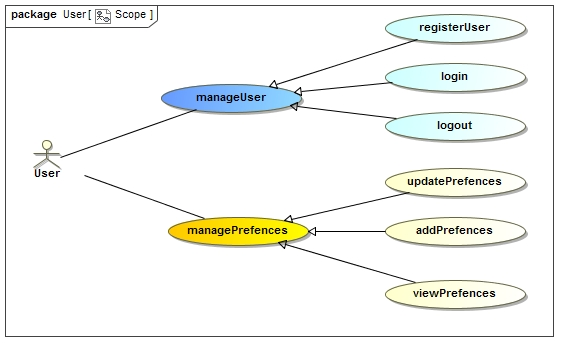
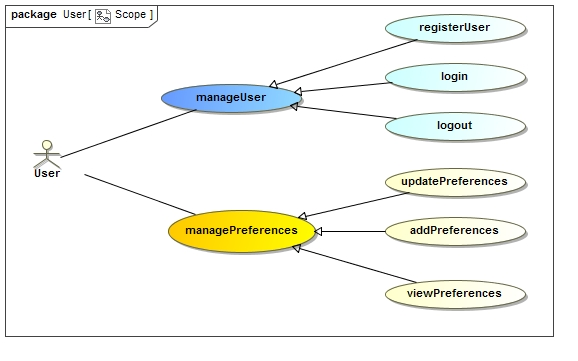
Modified user module

diff --git a/FunctionalRequirements/user_module.tex b/FunctionalRequirements/user_module.tex
@@ -25,7 +25,7 @@ A user can register with the system as long as they are not already registered. 
 
 \subsubsection{login}
 
-A registered user, given that they provide correct details to authenicate them, is able to access functionality such as adding and editing weather and disaster prefences once logged in. Below are the service contract, activity diagram and functional requirements diagram for login.
+A registered user, given that they provide correct details to authenicate them, is able to access functionality such as adding and editing weather and disaster preferences once logged in. Below are the service contract, activity diagram and functional requirements diagram for login.
 
 \begin{figure}[H]
 	\centering
@@ -67,6 +67,68 @@ A user, given that they are logged in to the system, is able to logout of the sy
 	\caption{The activity diagram for logout \label{overflow}}
 \end{figure}
 
-\subsubsection{addPrefences}
-\subsubsection{editPrefences}
-\subsubsection{viewPrefences}
+\subsubsection{addPreferences}
+
+A user, given that they are logged into the system, is able to add their weather and/or disaster data preferences as long as the user has specified the preference details correctly and those preference details do not already exist for the user. Below are the service contract, activity diagram and functional requirements diagram for addPreferences.
+
+\begin{figure}[H]
+	\centering
+	\includegraphics[width=1.0\textwidth]{../images/funcReq/addPreferencesServiceContract.jpg}
+	\caption{The service contract for addPreferences \label{overflow}}
+\end{figure}
+
+\begin{figure}[H]
+	\centering
+	\includegraphics[width=1.0\textwidth]{../images/funcReq/addPreferencesFunctionalRequirements.jpg}
+	\caption{The functional requirements diagram for addPreferences \label{overflow}}
+\end{figure}
+
+\begin{figure}[H]
+	\centering
+	\includegraphics[width=1.0\textwidth]{../images/funcReq/addPreferencesActivityDiagram.jpg}
+	\caption{The activity diagram for addPreferences \label{overflow}}
+\end{figure}
+
+\subsubsection{editPreferences}
+
+A user, given that they are logged into the system, is able to edit any of their weather and/or disaster data preferences as long as the user has specified the preference details to update and those preference details to be updated are not like the ones that already exist for the user. Below are the service contract, activity diagram and functional requirements diagram for editPreferences.
+
+\begin{figure}[H]
+	\centering
+	\includegraphics[width=1.0\textwidth]{../images/funcReq/editPreferencesServiceContract.jpg}
+	\caption{The service contract for editPreferences \label{overflow}}
+\end{figure}
+
+\begin{figure}[H]
+	\centering
+	\includegraphics[width=1.0\textwidth]{../images/funcReq/editPreferencesFunctionalRequirements.jpg}
+	\caption{The functional requirements diagram for editPreferences \label{overflow}}
+\end{figure}
+
+\begin{figure}[H]
+	\centering
+	\includegraphics[width=1.0\textwidth]{../images/funcReq/editPreferencesActivityDiagram.jpg}
+	\caption{The activity diagram for editPreferences \label{overflow}}
+\end{figure}
+
+\subsubsection{viewPreferences}
+
+A user, given that they are logged into the system, is able to view any of their weather and/or disaster preferences as long as they have already added those preferences. Below are the service contract, activity diagram and functional requirements diagram for viewPreferences.
+
+\begin{figure}[H]
+	\centering
+	\includegraphics[width=1.0\textwidth]{../images/funcReq/viewPreferencesServiceContract.jpg}
+	\caption{The service contract for viewPreferences \label{overflow}}
+\end{figure}
+
+\begin{figure}[H]
+	\centering
+	\includegraphics[width=1.0\textwidth]{../images/funcReq/viewPreferencesFunctionalRequirements.jpg}
+	\caption{The functional requirements diagram for viewPreferences \label{overflow}}
+\end{figure}
+
+\begin{figure}[H]
+	\centering
+	\includegraphics[width=1.0\textwidth]{../images/funcReq/viewPreferencesActivityDiagram.jpg}
+	\caption{The activity diagram for viewPreferences \label{overflow}}
+\end{figure}

diff --git a/FunctionalRequirements/user_scope.tex b/FunctionalRequirements/user_scope.tex
@@ -5,4 +5,4 @@
 	\caption{The scope of functionality required from the user module \label{overflow}}
 \end{figure}
 
-A user can register and login in to the system to get access to functionality such as adding,viewing and editing prefences of weather or disaster data that they would like to be at their disposal. They are also ablo to logout of the system once done.
+A user can register and login in to the system to get access to functionality such as adding,viewing and editing preferences of weather or disaster data that they would like to be at their disposal. They are also ablo to logout of the system once done.
